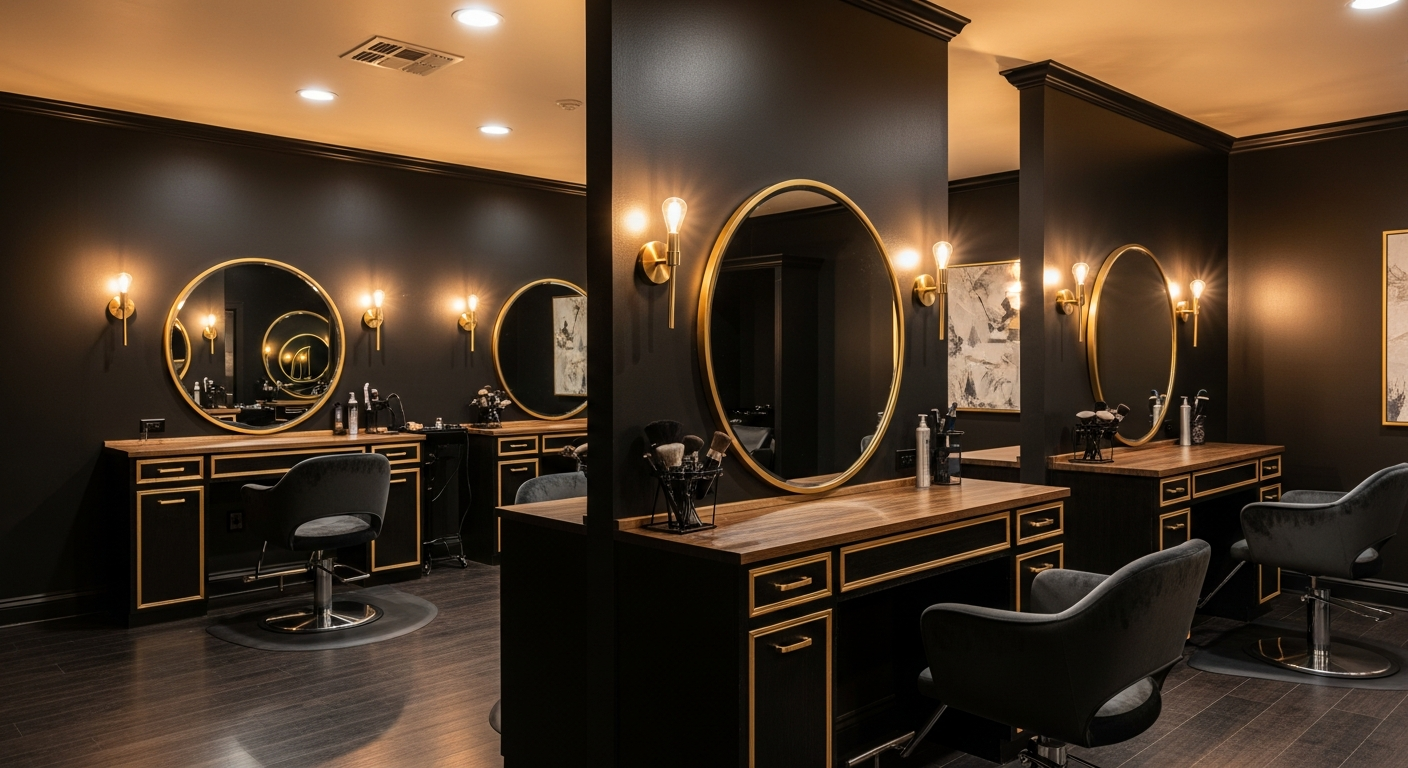
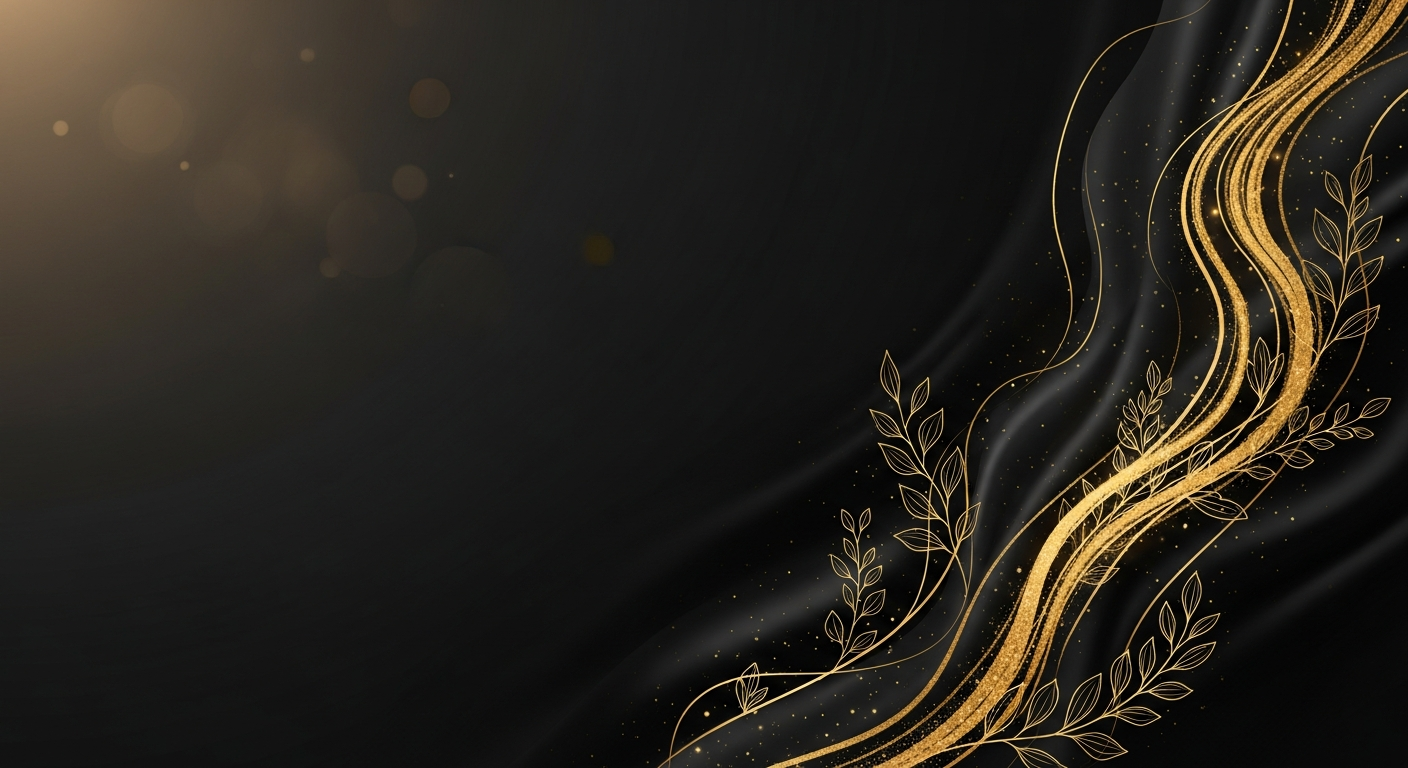
Update website with elegant visuals and a fixed booking button
Remove unused gallery and owner images, update hero background, and implement a sticky booking button in App.tsx.

Replit-Commit-Author: Agent
Replit-Commit-Session-Id: 2e9aaeb7-9db9-49f1-8f76-316695d1822c
Replit-Commit-Checkpoint-Type: full_checkpoint
Replit-Commit-Event-Id: 26e51fe9-b78c-4172-ab90-fb50983b4738
Replit-Commit-Screenshot-Url: https://storage.googleapis.com/screenshot-production-us-central1/e4a80052-71cc-42f2-892d-01859cd79628/2e9aaeb7-9db9-49f1-8f76-316695d1822c/2mB2MjR
Replit-Helium-Checkpoint-Created: true

diff --git a/artifacts/ubtan-salon/src/App.tsx b/artifacts/ubtan-salon/src/App.tsx
@@ -49,39 +49,32 @@ export default function App() {
       </section>
 
       {/* About */}
-      <section id="about" className="py-32 bg-card relative">
-        <div className="container mx-auto px-6">
-          <div className="flex flex-col md:flex-row items-center gap-16 md:gap-24">
-            <div className="w-full md:w-1/2">
-              <ScrollReveal>
-                <div className="relative">
-                  <div className="absolute -inset-4 border border-primary/20" />
-                  <img src="/images/owner.png" alt="Neelu Rai" className="w-full aspect-[3/4] object-cover" />
-                </div>
-              </ScrollReveal>
-            </div>
-            <div className="w-full md:w-1/2 space-y-8">
-              <ScrollReveal>
-                <h2 className="text-3xl md:text-5xl font-serif text-primary">The Visionary</h2>
-                <div className="h-px w-24 bg-primary/30 mt-6" />
-              </ScrollReveal>
-              <ScrollReveal delay={200}>
-                <p className="text-lg font-light leading-relaxed text-muted-foreground">
-                  Founded by Neelu Rai, UBTAN is more than a salon—it is a private sanctuary designed exclusively for women. With years of expertise in high-end beauty, Neelu created this space with one philosophy in mind: every woman deserves to experience her own beauty in a setting of absolute sophistication.
-                </p>
-              </ScrollReveal>
-              <ScrollReveal delay={400}>
-                <p className="text-lg font-light leading-relaxed text-muted-foreground">
-                  Here, there is no rush, no noise. Only meticulous craftsmanship, premium products, and an environment tailored to your comfort and transformation.
-                </p>
-              </ScrollReveal>
-              <ScrollReveal delay={600}>
-                <div className="pt-4">
-                  <p className="font-serif text-2xl italic text-primary">Neelu Rai</p>
-                  <p className="text-sm tracking-widest text-muted-foreground uppercase mt-2">Founder & Creative Director</p>
-                </div>
-              </ScrollReveal>
-            </div>
+      <section id="about" className="py-32 bg-card relative overflow-hidden">
+        <div className="absolute -right-32 top-1/2 -translate-y-1/2 w-[28rem] h-[28rem] border border-primary/10 rounded-full" />
+        <div className="absolute -right-16 top-1/2 -translate-y-1/2 w-72 h-72 border border-primary/10 rounded-full" />
+        <div className="container mx-auto px-6 relative">
+          <div className="max-w-3xl mx-auto text-center space-y-8">
+            <ScrollReveal>
+              <span className="text-primary text-sm tracking-[0.2em] uppercase mb-4 block">The Visionary</span>
+              <h2 className="text-3xl md:text-5xl font-serif text-foreground">Meet Neelu Rai</h2>
+              <div className="h-px w-24 bg-primary/30 mx-auto mt-6" />
+            </ScrollReveal>
+            <ScrollReveal delay={200}>
+              <p className="text-lg font-light leading-relaxed text-muted-foreground">
+                Founded by Neelu Rai, UBTAN is more than a salon—it is a private sanctuary designed exclusively for women. With years of expertise in high-end beauty, Neelu created this space with one philosophy in mind: every woman deserves to experience her own beauty in a setting of absolute sophistication.
+              </p>
+            </ScrollReveal>
+            <ScrollReveal delay={400}>
+              <p className="text-lg font-light leading-relaxed text-muted-foreground">
+                Here, there is no rush, no noise. Only meticulous craftsmanship, premium products, and an environment tailored to your comfort and transformation.
+              </p>
+            </ScrollReveal>
+            <ScrollReveal delay={600}>
+              <div className="pt-4">
+                <p className="font-serif text-2xl italic text-primary">Neelu Rai</p>
+                <p className="text-sm tracking-widest text-muted-foreground uppercase mt-2">Founder & Creative Director</p>
+              </div>
+            </ScrollReveal>
           </div>
         </div>
       </section>
@@ -116,29 +109,36 @@ export default function App() {
         </div>
       </section>
 
-      {/* Gallery */}
-      <section id="gallery" className="py-32 bg-card">
+      {/* Why Choose Us */}
+      <section id="gallery" className="py-32 bg-card relative overflow-hidden">
         <div className="container mx-auto px-6">
           <ScrollReveal>
             <div className="text-center max-w-2xl mx-auto mb-20">
               <span className="text-primary text-sm tracking-[0.2em] uppercase mb-4 block">The Experience</span>
-              <h2 className="text-4xl md:text-5xl font-serif text-foreground">A Glimpse of Luxury</h2>
+              <h2 className="text-4xl md:text-5xl font-serif text-foreground">Why Women Choose UBTAN</h2>
+              <div className="h-px w-24 bg-primary/30 mx-auto mt-8" />
             </div>
           </ScrollReveal>
 
-          <div className="grid grid-cols-1 md:grid-cols-2 gap-4">
-            <ScrollReveal>
-              <img src="/images/gallery-hair.png" alt="Hair Styling" className="w-full aspect-square object-cover hover:opacity-90 transition-opacity" />
-            </ScrollReveal>
-            <ScrollReveal delay={100}>
-              <img src="/images/gallery-skin.png" alt="Skin Care" className="w-full aspect-square object-cover hover:opacity-90 transition-opacity" />
-            </ScrollReveal>
-            <ScrollReveal delay={200}>
-              <img src="/images/gallery-makeup.png" alt="Makeup" className="w-full aspect-square object-cover hover:opacity-90 transition-opacity" />
-            </ScrollReveal>
-            <ScrollReveal delay={300}>
-              <img src="/images/gallery-nails.png" alt="Nails" className="w-full aspect-square object-cover hover:opacity-90 transition-opacity" />
-            </ScrollReveal>
+          <div className="grid grid-cols-1 md:grid-cols-3 gap-8 max-w-4xl mx-auto">
+            {[
+              { title: "Experienced Professionals", desc: "Years of refined expertise in high-end beauty craftsmanship." },
+              { title: "Hygienic Environment", desc: "Immaculate standards maintained at every step of your visit." },
+              { title: "Premium Products", desc: "Only the finest, salon-grade formulations touch your skin and hair." },
+              { title: "Personalized Care", desc: "Every service tailored to your unique features and preferences." },
+              { title: "Relaxing Ambience", desc: "A calm, unhurried sanctuary designed for total ease." },
+              { title: "Ladies Only", desc: "A private space exclusively for women, always." }
+            ].map((item, i) => (
+              <ScrollReveal key={i} delay={i * 100}>
+                <div className="text-center space-y-3 p-6">
+                  <div className="w-12 h-12 mx-auto rounded-full border border-primary/30 flex items-center justify-center text-primary font-serif text-lg">
+                    {i + 1}
+                  </div>
+                  <h3 className="font-serif text-lg text-foreground">{item.title}</h3>
+                  <p className="text-sm font-light text-muted-foreground leading-relaxed">{item.desc}</p>
+                </div>
+              </ScrollReveal>
+            ))}
           </div>
         </div>
       </section>
@@ -242,6 +242,15 @@ export default function App() {
           <p className="text-sm font-light text-muted-foreground">© {new Date().getFullYear()} UBTAN Salon by Neelu Rai. All rights reserved.</p>
         </div>
       </footer>
+
+      {/* Fixed Booking Button */}
+      <div className="fixed bottom-6 right-6 z-50">
+        <BookingModal>
+          <button className="flex items-center gap-2 px-6 py-4 bg-primary text-primary-foreground text-sm tracking-widest uppercase shadow-lg shadow-black/40 hover:bg-primary/90 transition-all duration-300">
+            Book Now
+          </button>
+        </BookingModal>
+      </div>
     </div>
   );
 }